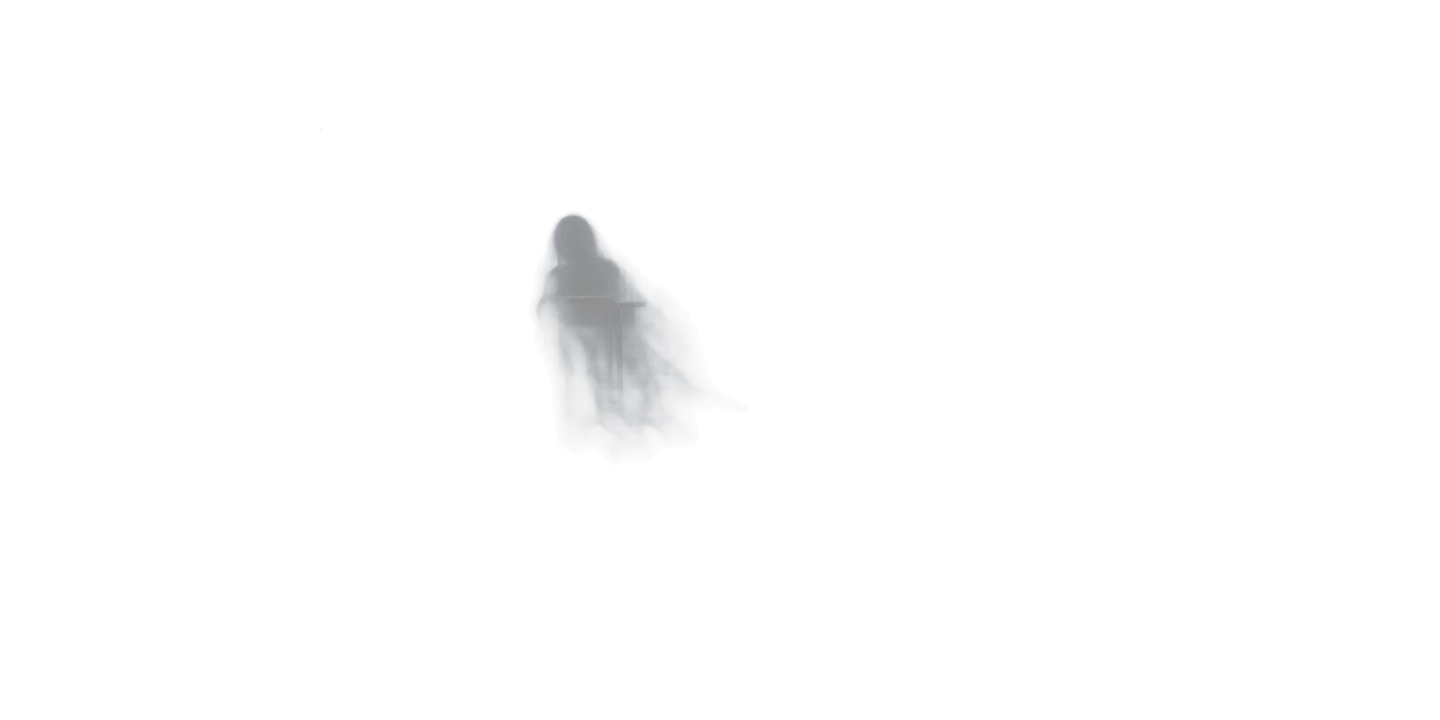
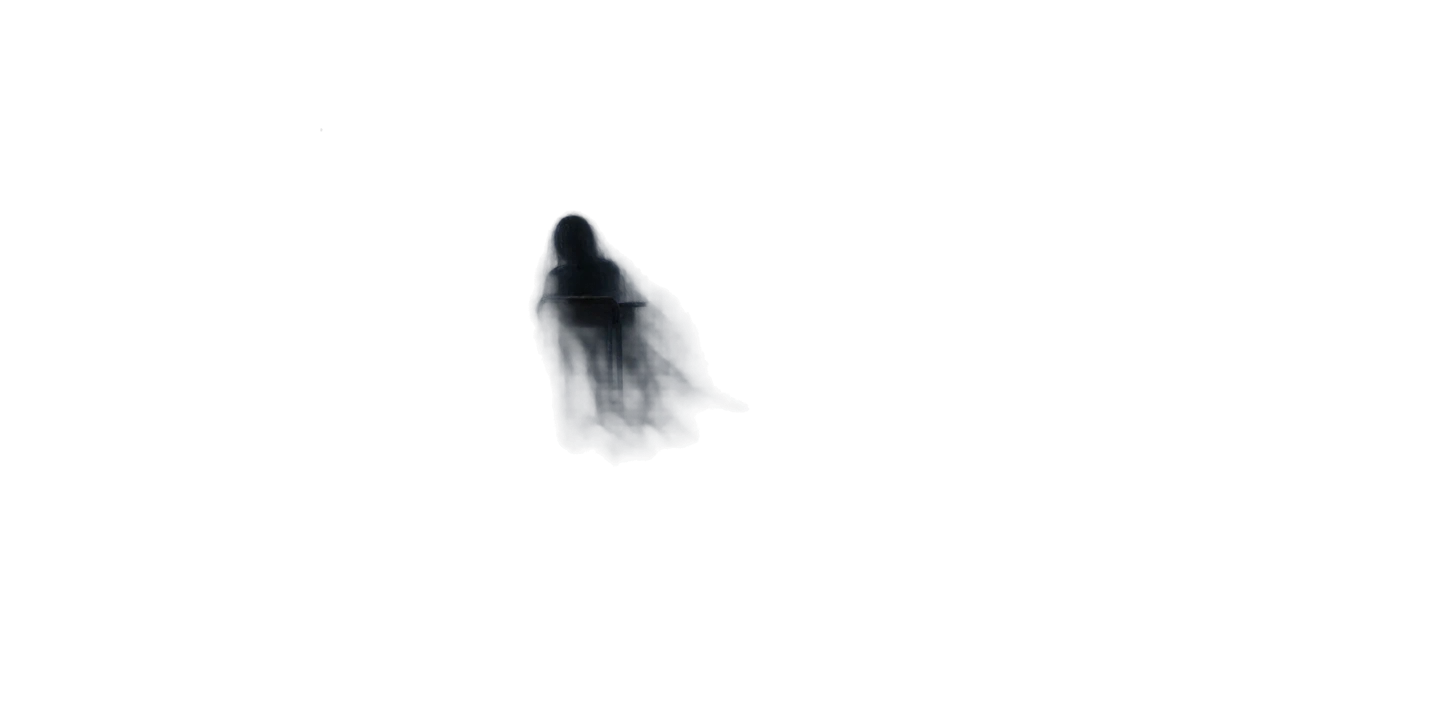
asset: make night-classroom R/SR anomalies easier to notice (alpha gain, SR edge halo) (#201)
photo-1 alpha x2.2, photo-2 alpha x1.5 with a faint edge halo. Contact points,
shapes, IDs and SSR unchanged. Before/after SHA recorded in the source report.

Refs #174

Claude-Session: https://claude.ai/code/session_01V62wxXyd64fV2jTirvuzG3

Changed region(s): [[0.375, 0.275, 0.5, 0.6111]]

diff --git a/docs/OBSERVATION.md b/docs/OBSERVATION.md
@@ -118,3 +118,9 @@
 - 既存の二地点照合を維持し、別の独立した読み取り専用の演出とする。原本・地点ID・抽選・既得報酬・人物・セーブ・解放とレアリティは不変。
 - 320×568 / 390×844 / 844×390の日本語UIと写真デコード、発見済み秘匿、無報酬をブラウザで検証。端末実機・本番Firebase・人間による恐怖/発見率の評価は別途必要。
 
+
+## 2026-10-17：夜の教室の異変R・SRを見つけやすく加工
+
+- 生成AI由来の差分 `photo-1`（R）・`photo-2`（SR）はスマホ表示で薄く、気づきにくかった。透明度を `photo-1` ×2.2、`photo-2` ×1.5に上げ、`photo-2` には暗い床から分離する薄い明るい輪郭を足した。接触位置・形・ID・抽選率は変更なし。
+- 加工前後のSHAと数値は `docs/qa-incursions/native-photo-source-report.json` の `delta_postprocess` に記録。加工前の画像は git の `322469d` に残る。SSR（`photo-3`）と合成物は変更なし。
+- 自動テストは通るが、実際に気づけるかは人の確認が必要（#89）。
